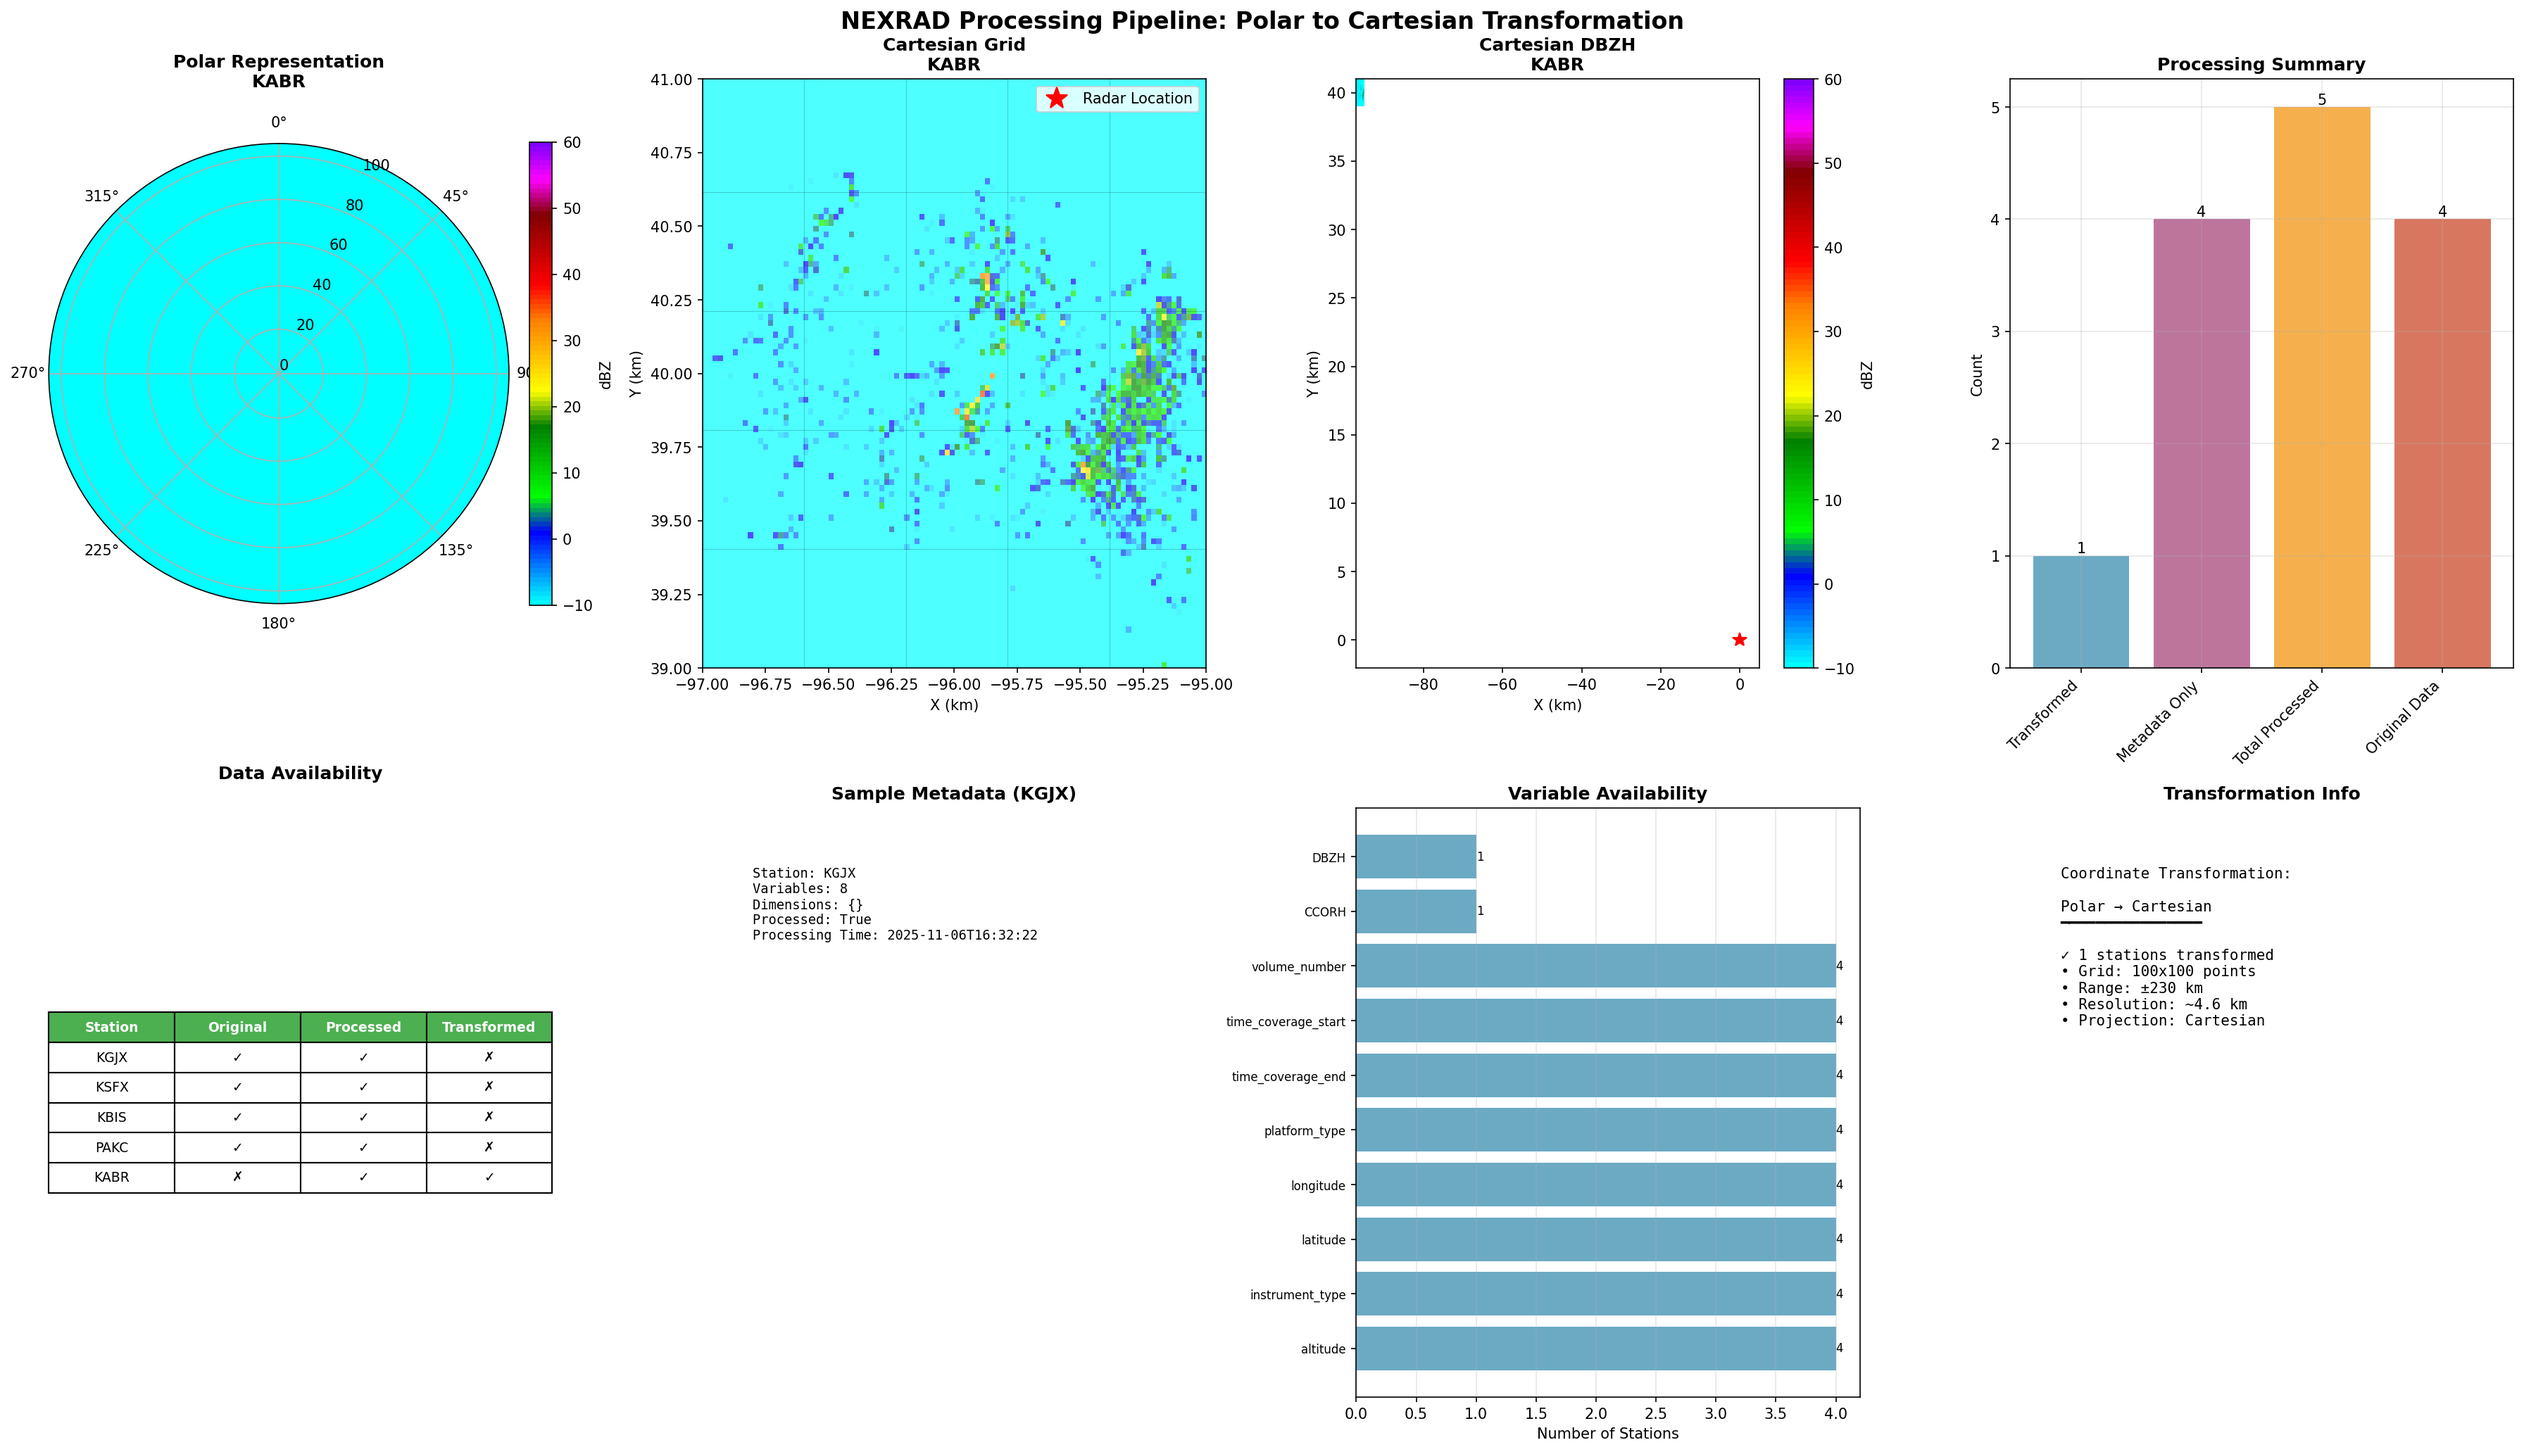
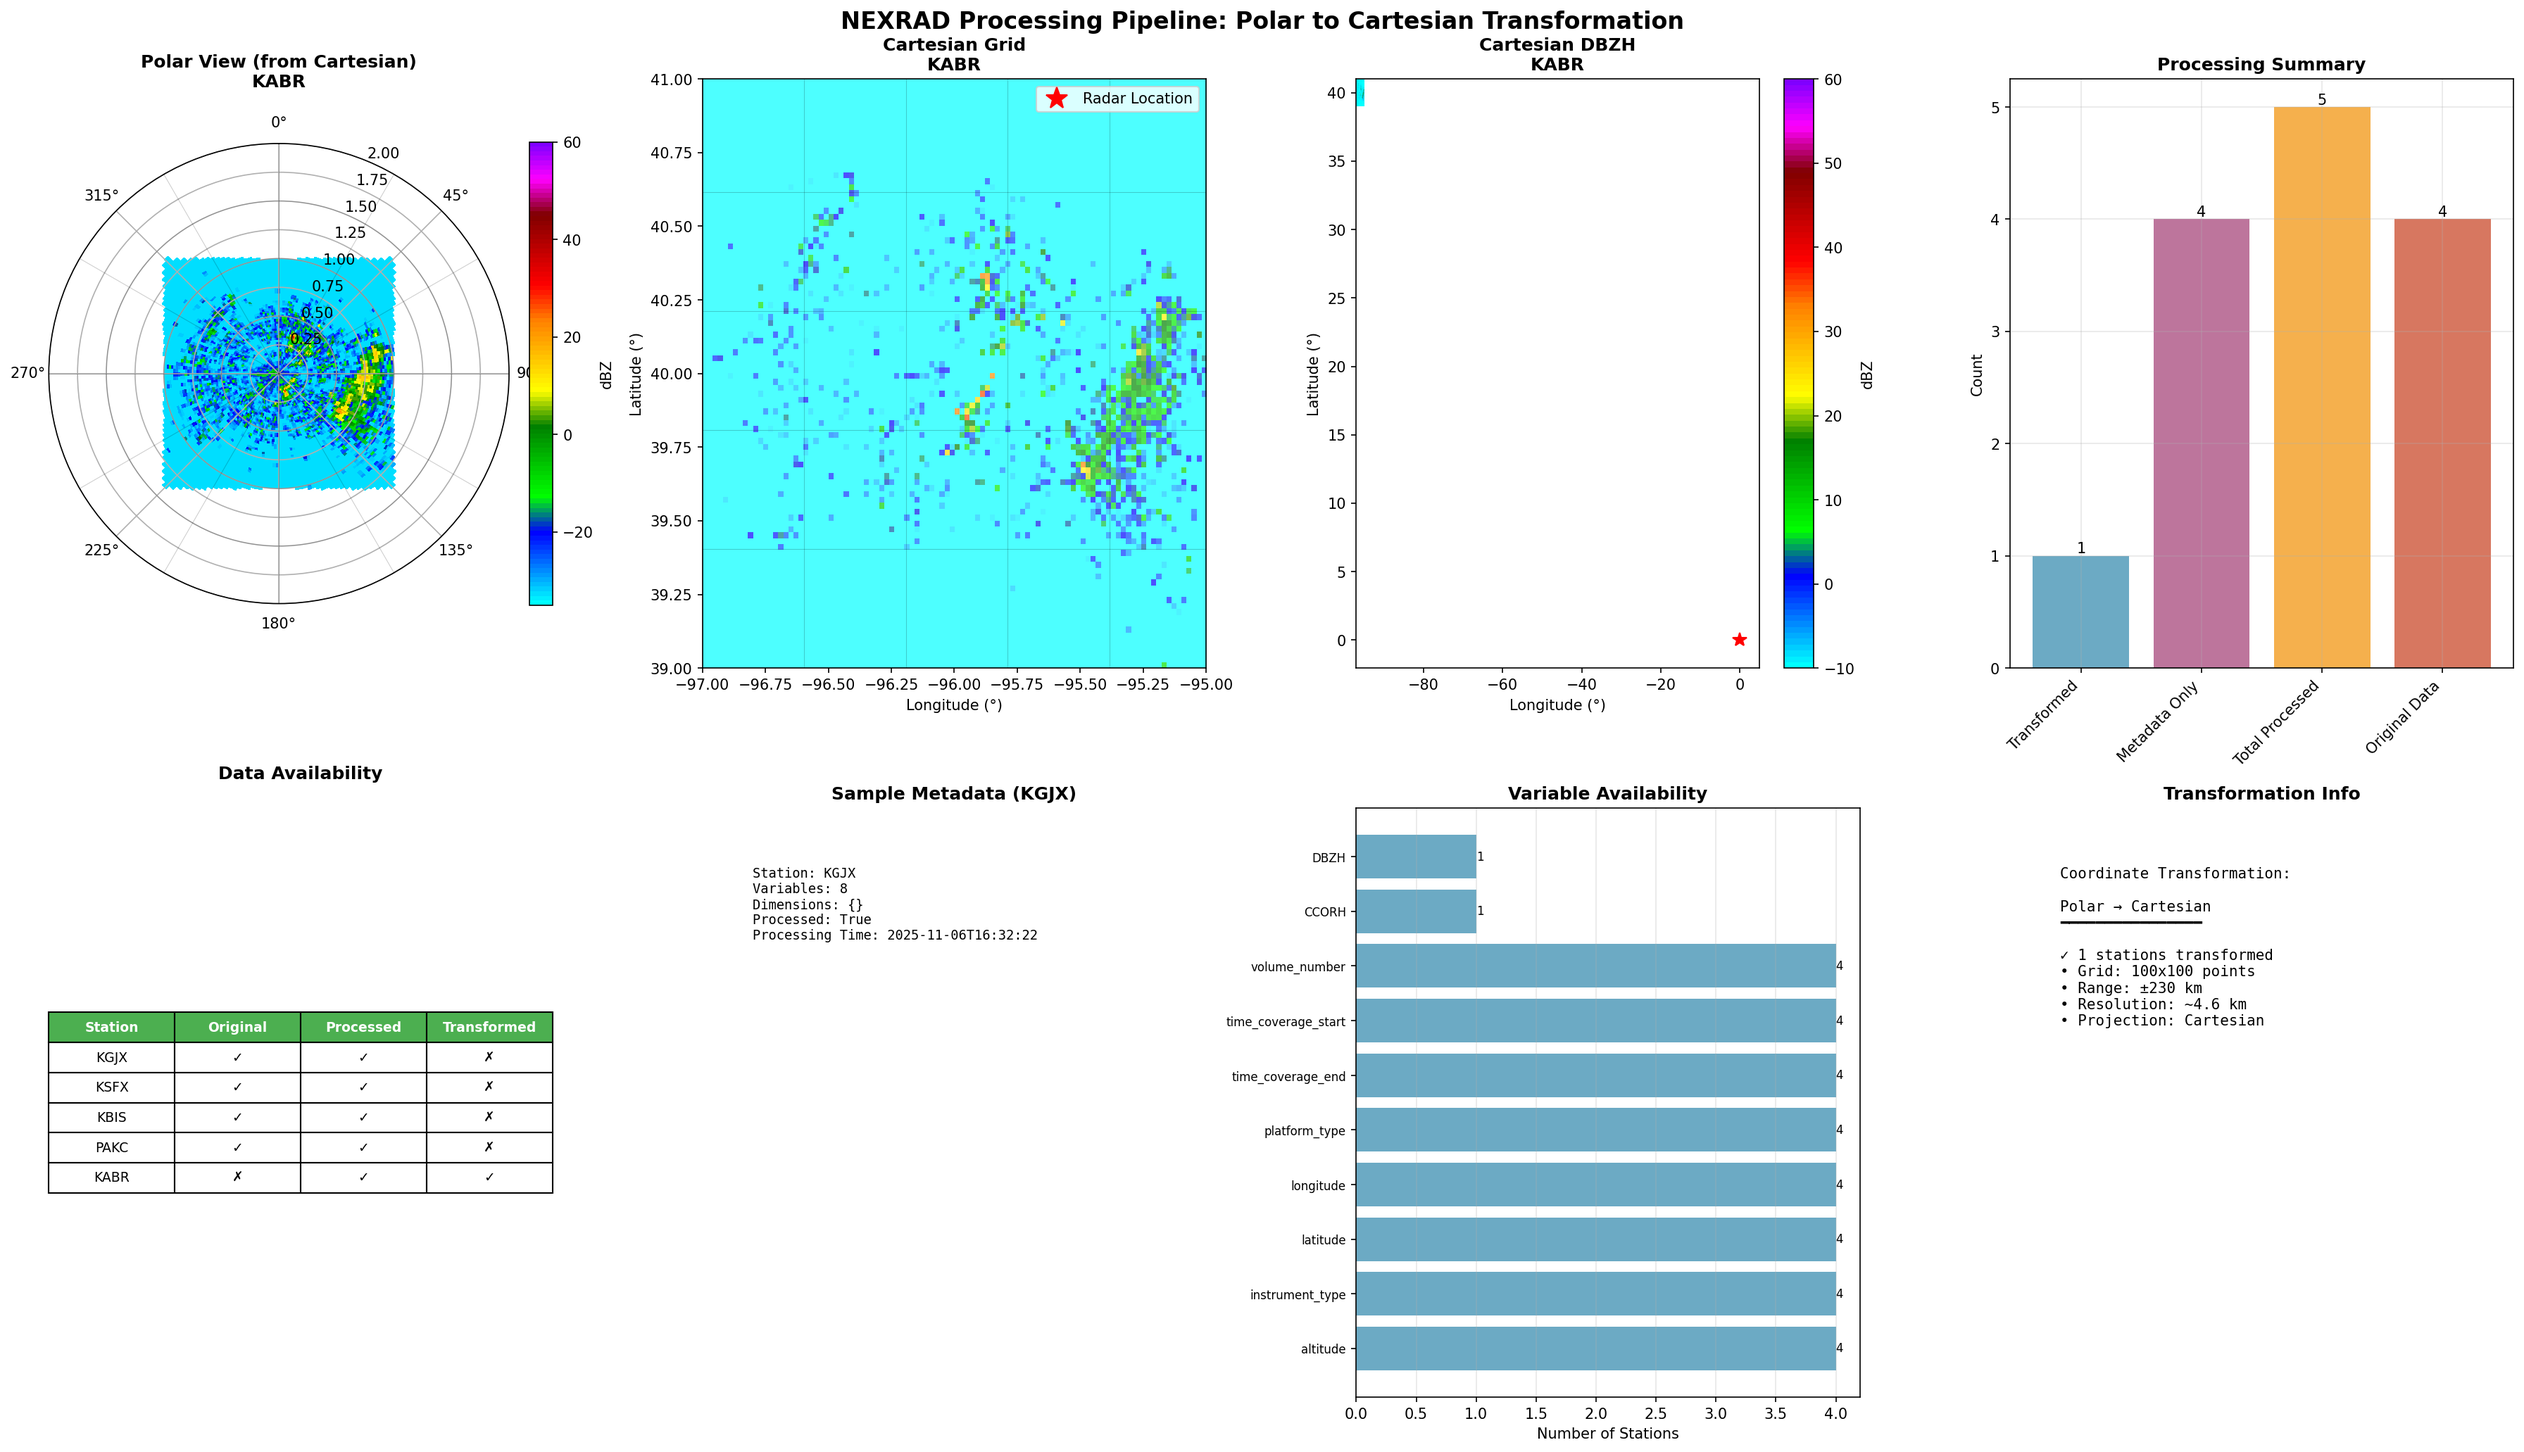
Visualization fixed

diff --git a/src/visualize_results.py b/src/visualize_results.py
@@ -86,46 +86,51 @@ def create_comparison_plots(data_path: str, output_path: str, save_path: str = '
             station = transformed_stations[0]
             ds = processed_data[station]
             
-            # Plot 1: Polar representation (reconstruct from cartesian if needed)
+            # Plot 1: Polar representation - show cartesian data in polar view
             ax1 = plt.subplot(2, 4, 1, projection='polar')
             
             # Use actual DBZH data to show in polar coordinates
             if 'DBZH' in ds.data_vars:
                 dbzh = ds.DBZH.values
                 
-                # Create polar coordinate representation from cartesian data
-                # Convert cartesian back to polar for visualization
-                x = ds.x.values
-                y = ds.y.values
-                xx, yy = np.meshgrid(x, y)
+                # Get coordinate ranges (in degrees lat/lon)
+                x = ds.x.values  # longitude
+                y = ds.y.values  # latitude
                 
-                # Convert to polar
-                rr = np.sqrt(xx**2 + yy**2)
-                theta_data = np.arctan2(yy, xx)
+                # Get radar center location
+                radar_lon = float(ds.attrs.get('longitude', x.mean()))
+                radar_lat = float(ds.attrs.get('latitude', y.mean()))
                 
-                # Create polar grid for display
-                theta = np.linspace(0, 2*np.pi, 360)
-                r = np.linspace(0, np.max(rr), 100)
+                # Create polar grid for visualization
+                theta = np.linspace(0, 2*np.pi, 180)  # Azimuth angles
+                # Maximum range in degrees (approximately 2 degrees covers ~220km)
+                max_range_deg = 2.0
+                r = np.linspace(0, max_range_deg, 100)  # Range in degrees
+                
+                # Create meshgrid for polar display
                 theta_grid, r_grid = np.meshgrid(theta, r)
                 
-                # Interpolate cartesian data to polar grid
-                from scipy.interpolate import griddata
-                points = np.column_stack((rr.ravel(), theta_data.ravel()))
-                values = dbzh.ravel()
+                # Convert polar grid to lat/lon coordinates
+                # r is distance in degrees, theta is azimuth from north
+                lat_polar = radar_lat + r_grid * np.cos(theta_grid)
+                lon_polar = radar_lon + r_grid * np.sin(theta_grid)
                 
-                # Remove NaN values for interpolation
-                mask = ~np.isnan(values)
-                if np.any(mask):
-                    points = points[mask]
-                    values = values[mask]
-                    
-                    polar_points = np.column_stack((r_grid.ravel(), theta_grid.ravel()))
-                    polar_data = griddata(points, values, polar_points, method='nearest')
-                    polar_data = polar_data.reshape(r_grid.shape)
-                else:
-                    # If no valid data, create a sample pattern
-                    polar_data = np.random.randn(100, 360) * 10 + 20
-                    polar_data[polar_data < 0] = np.nan
+                # Interpolate cartesian data to polar grid points
+                from scipy.interpolate import RegularGridInterpolator
+                
+                # Create interpolator for the cartesian data
+                # Note: RegularGridInterpolator expects (y, x) order for 2D data
+                interpolator = RegularGridInterpolator(
+                    (y, x), 
+                    dbzh,
+                    method='linear',
+                    bounds_error=False,
+                    fill_value=np.nan
+                )
+                
+                # Sample at polar grid points (lat, lon order)
+                points = np.column_stack([lat_polar.ravel(), lon_polar.ravel()])
+                polar_data = interpolator(points).reshape(r_grid.shape)
                 
                 # Use a radar-like colormap
                 try:
@@ -139,10 +144,24 @@ def create_comparison_plots(data_path: str, output_path: str, save_path: str = '
                     n_bins = 100
                     cmap = matplotlib.colors.LinearSegmentedColormap.from_list('radar', colors_list, N=n_bins)
                 
-                c = ax1.pcolormesh(theta_grid, r_grid, polar_data, cmap=cmap, vmin=-10, vmax=60, shading='auto')
-                ax1.set_title(f'Polar Representation\n{station}', fontsize=12, fontweight='bold', pad=20)
+                # Mask invalid data
+                polar_data_masked = np.ma.masked_invalid(polar_data)
+                
+                c = ax1.pcolormesh(theta_grid, r_grid, polar_data_masked, 
+                                  cmap=cmap, vmin=-35, vmax=60, shading='auto')
+                ax1.set_title(f'Polar View (from Cartesian)\n{station}', fontsize=12, fontweight='bold', pad=20)
                 ax1.set_theta_zero_location('N')
                 ax1.set_theta_direction(-1)
+                ax1.set_ylim(0, r.max())
+                
+                # Add range rings
+                for ring_r in np.linspace(0, r.max(), 5)[1:]:
+                    ax1.plot(theta, [ring_r]*len(theta), 'k-', alpha=0.2, linewidth=0.5)
+                
+                # Add azimuth lines
+                for angle in np.arange(0, 360, 30):
+                    ax1.plot([np.radians(angle), np.radians(angle)], [0, r.max()], 'k-', alpha=0.2, linewidth=0.5)
+                
                 plt.colorbar(c, ax=ax1, label='dBZ', fraction=0.046, pad=0.04)
             else:
                 ax1.text(0.5, 0.5, 'No DBZH data', ha='center', va='center', transform=ax1.transAxes)
@@ -181,8 +200,8 @@ def create_comparison_plots(data_path: str, output_path: str, save_path: str = '
                     ax2.axhline(y[i], color='black', alpha=0.2, linewidth=0.5)
                 
                 ax2.set_title(f'Cartesian Grid\n{station}', fontsize=12, fontweight='bold')
-                ax2.set_xlabel('X (km)')
-                ax2.set_ylabel('Y (km)')
+                ax2.set_xlabel('Longitude (°)')
+                ax2.set_ylabel('Latitude (°)')
                 ax2.set_xlim(x.min(), x.max())
                 ax2.set_ylim(y.min(), y.max())
                 
@@ -212,8 +231,8 @@ def create_comparison_plots(data_path: str, output_path: str, save_path: str = '
                                           ds.y.min().item(), ds.y.max().item()],
                                    origin='lower', vmin=-10, vmax=60)
                     ax3.set_title(f'Cartesian DBZH\n{station}', fontsize=12, fontweight='bold')
-                    ax3.set_xlabel('X (km)')
-                    ax3.set_ylabel('Y (km)')
+                    ax3.set_xlabel('Longitude (°)')
+                    ax3.set_ylabel('Latitude (°)')
                     plt.colorbar(im, ax=ax3, label='dBZ')
                     
                     # Add radar location
